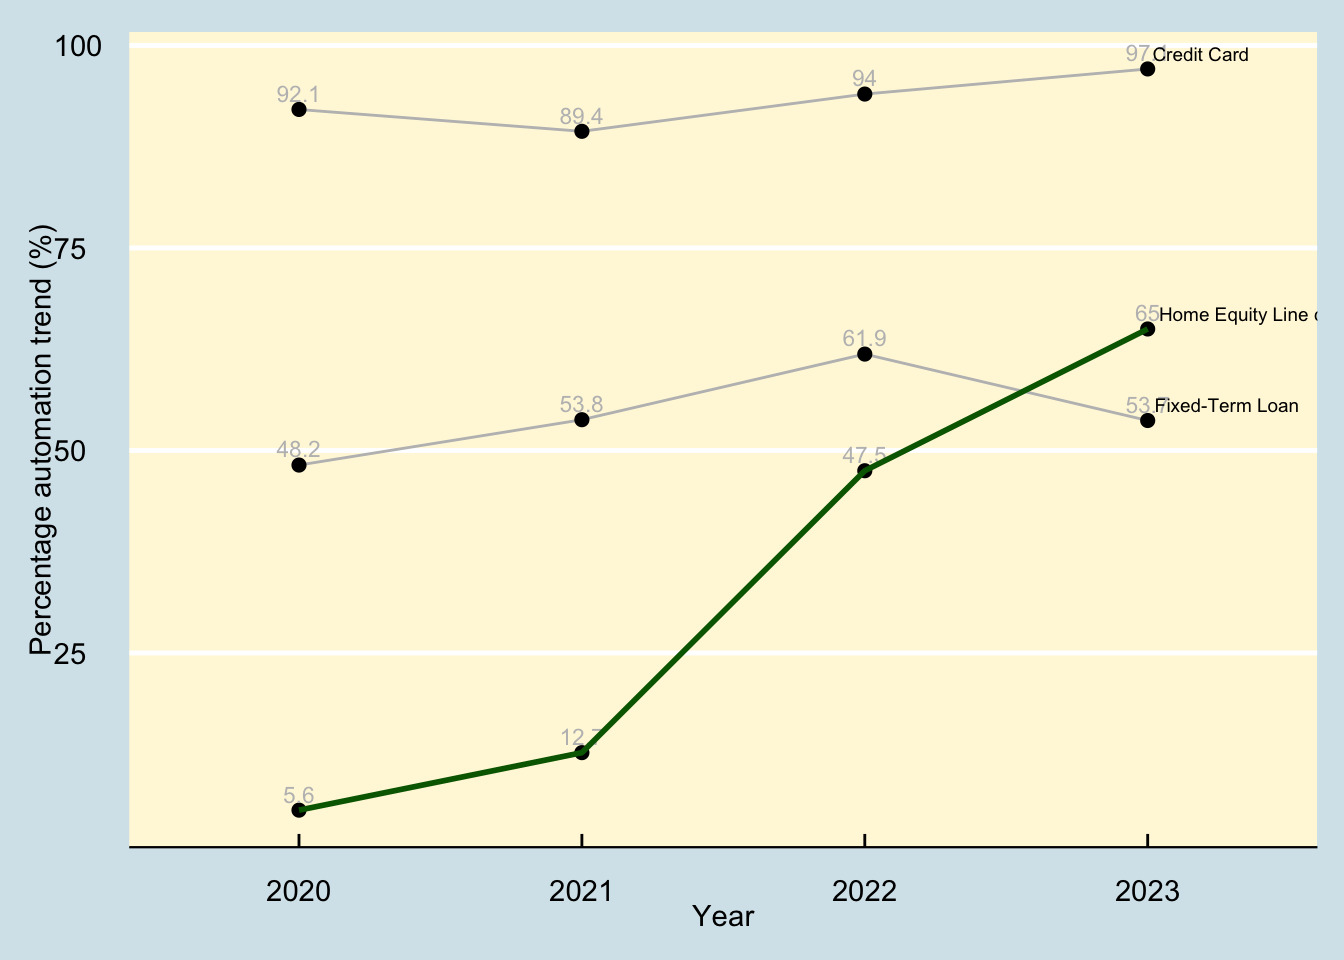
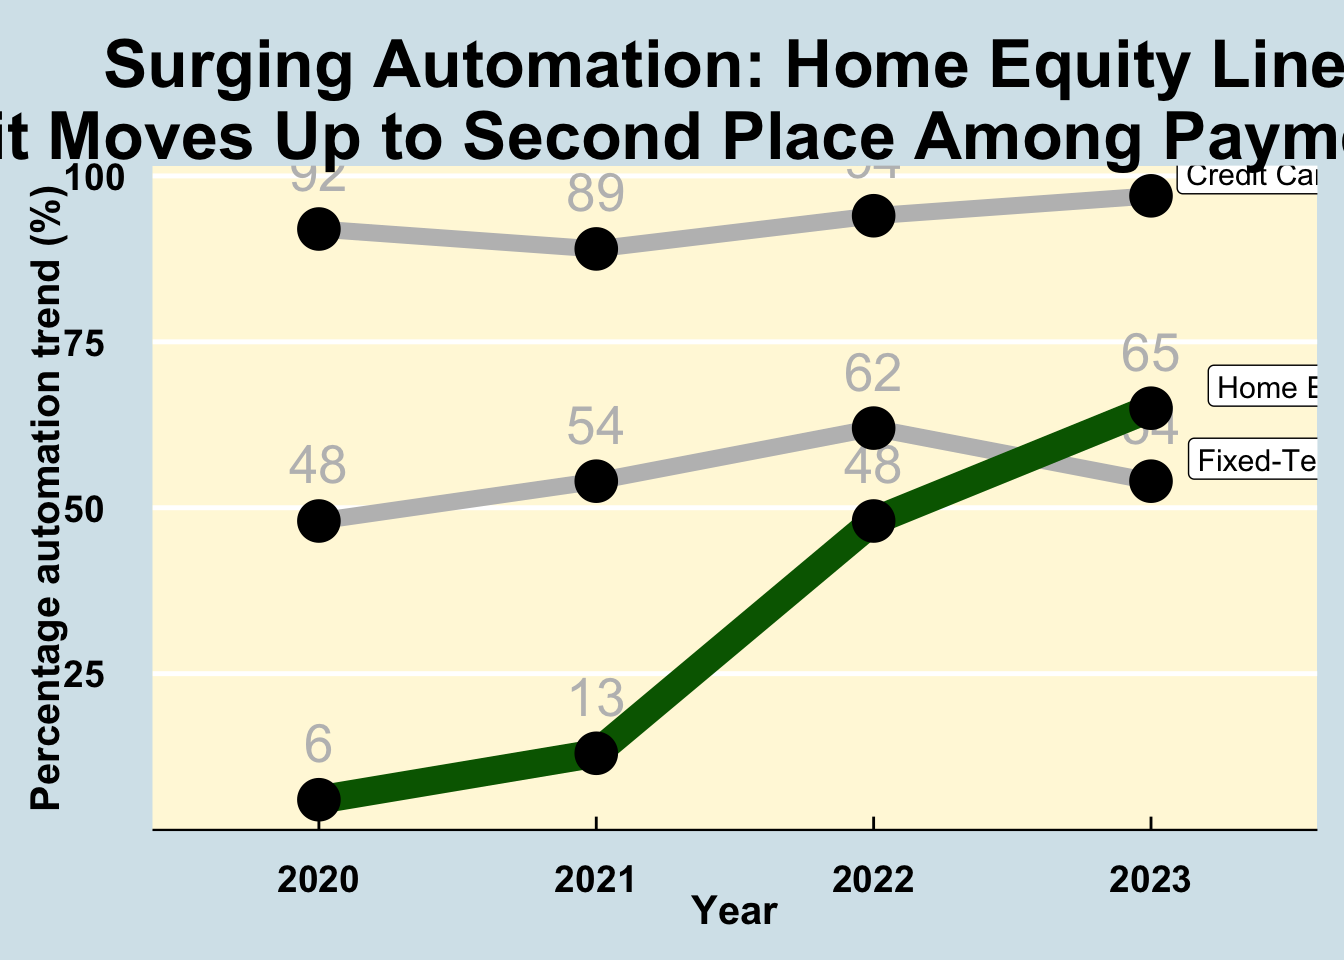
Labels highlighted for home credit line of payment

Changed region(s): [[0.0, 0.0312, 1.0, 0.9375], [0.5, 0.9375, 0.5938, 0.9688]]

diff --git a/February/Ex3.html b/February/Ex3.html
@@ -139,26 +139,34 @@ Specify the column types or set `show_col_types = FALSE` to quiet this message.
 </div>
 <div class="cell">
 <div class="sourceCode cell-code" id="cb8"><pre class="sourceCode r code-with-copy"><code class="sourceCode r"><span id="cb8-1"><a href="#cb8-1" aria-hidden="true" tabindex="-1"></a>pl1 <span class="ot">&lt;-</span></span>
-<span id="cb8-2"><a href="#cb8-2" aria-hidden="true" tabindex="-1"></a>  <span class="fu">ggplot</span>(<span class="at">data =</span> df_long, <span class="fu">aes</span>(<span class="at">x =</span> Year, <span class="at">y =</span> Percentage, <span class="at">group =</span> Type)) <span class="sc">+</span></span>
-<span id="cb8-3"><a href="#cb8-3" aria-hidden="true" tabindex="-1"></a>  <span class="fu">geom_line</span>(<span class="at">color =</span> <span class="st">"gray"</span>) <span class="sc">+</span> <span class="fu">theme_economist</span>() <span class="sc">+</span> <span class="fu">geom_point</span>(<span class="at">color =</span> <span class="st">"black"</span>, <span class="at">size =</span> <span class="dv">2</span>) <span class="sc">+</span> <span class="fu">geom_text</span>(</span>
-<span id="cb8-4"><a href="#cb8-4" aria-hidden="true" tabindex="-1"></a>    <span class="fu">aes</span>(<span class="at">label =</span> Percentage),</span>
-<span id="cb8-5"><a href="#cb8-5" aria-hidden="true" tabindex="-1"></a>    <span class="at">vjust =</span> <span class="sc">-</span><span class="fl">0.5</span>,</span>
-<span id="cb8-6"><a href="#cb8-6" aria-hidden="true" tabindex="-1"></a>    <span class="at">size =</span> <span class="dv">3</span>,</span>
+<span id="cb8-2"><a href="#cb8-2" aria-hidden="true" tabindex="-1"></a>  <span class="fu">ggplot</span>(<span class="at">data =</span> df_long, <span class="fu">aes</span>(<span class="at">x =</span> Year, <span class="at">y =</span> <span class="fu">round</span>(Percentage,<span class="dv">0</span>), <span class="at">group =</span> Type)) <span class="sc">+</span></span>
+<span id="cb8-3"><a href="#cb8-3" aria-hidden="true" tabindex="-1"></a>  <span class="fu">geom_line</span>(<span class="at">color =</span> <span class="st">"gray"</span>,<span class="at">size =</span> <span class="dv">3</span>) <span class="sc">+</span> <span class="fu">theme_economist</span>() <span class="sc">+</span>  <span class="fu">geom_text</span>(</span>
+<span id="cb8-4"><a href="#cb8-4" aria-hidden="true" tabindex="-1"></a>    <span class="fu">aes</span>(<span class="at">label =</span> <span class="fu">round</span>(Percentage,<span class="dv">0</span>)),</span>
+<span id="cb8-5"><a href="#cb8-5" aria-hidden="true" tabindex="-1"></a>    <span class="at">vjust =</span> <span class="sc">-</span><span class="dv">1</span>,</span>
+<span id="cb8-6"><a href="#cb8-6" aria-hidden="true" tabindex="-1"></a>    <span class="at">size =</span> <span class="dv">7</span>,</span>
 <span id="cb8-7"><a href="#cb8-7" aria-hidden="true" tabindex="-1"></a>    <span class="at">color =</span> <span class="st">"gray"</span></span>
 <span id="cb8-8"><a href="#cb8-8" aria-hidden="true" tabindex="-1"></a>  ) <span class="sc">+</span> <span class="fu">labs</span>(<span class="at">x =</span> <span class="st">"Year"</span>,</span>
-<span id="cb8-9"><a href="#cb8-9" aria-hidden="true" tabindex="-1"></a>           <span class="at">y =</span> <span class="st">"Percentage automation trend (%)"</span>) <span class="sc">+</span> <span class="fu">theme</span>(<span class="at">legend.text =</span> <span class="fu">element_text</span>(<span class="at">size =</span> <span class="dv">6</span>),</span>
-<span id="cb8-10"><a href="#cb8-10" aria-hidden="true" tabindex="-1"></a>                                                          <span class="at">panel.background =</span> <span class="fu">element_rect</span>(<span class="at">fill =</span> <span class="st">'cornsilk'</span>)) <span class="sc">+</span> <span class="fu">geom_line</span>(</span>
-<span id="cb8-11"><a href="#cb8-11" aria-hidden="true" tabindex="-1"></a>                                                            <span class="at">data =</span> <span class="sc">~</span> <span class="fu">filter</span>(.x, Type <span class="sc">==</span> <span class="st">"Home Equity Line of Credit"</span>),</span>
-<span id="cb8-12"><a href="#cb8-12" aria-hidden="true" tabindex="-1"></a>                                                            <span class="at">color =</span> <span class="st">"darkgreen"</span>,</span>
-<span id="cb8-13"><a href="#cb8-13" aria-hidden="true" tabindex="-1"></a>                                                            <span class="at">size =</span> <span class="dv">1</span></span>
-<span id="cb8-14"><a href="#cb8-14" aria-hidden="true" tabindex="-1"></a>                                                          )  <span class="sc">+</span> <span class="fu">geom_text</span>(</span>
-<span id="cb8-15"><a href="#cb8-15" aria-hidden="true" tabindex="-1"></a>                                                            <span class="at">data =</span> <span class="fu">filter</span>(df_long, Year <span class="sc">==</span> <span class="dv">2023</span>),</span>
-<span id="cb8-16"><a href="#cb8-16" aria-hidden="true" tabindex="-1"></a>                                                            <span class="fu">aes</span>(<span class="at">label =</span> Type),</span>
-<span id="cb8-17"><a href="#cb8-17" aria-hidden="true" tabindex="-1"></a>                                                            <span class="at">vjust =</span> <span class="sc">-</span><span class="fl">0.65</span>,</span>
-<span id="cb8-18"><a href="#cb8-18" aria-hidden="true" tabindex="-1"></a>                                                            <span class="at">hjust =</span> <span class="sc">-</span><span class="fl">0.05</span>,</span>
-<span id="cb8-19"><a href="#cb8-19" aria-hidden="true" tabindex="-1"></a>                                                            <span class="at">size =</span> <span class="fl">2.5</span>,</span>
-<span id="cb8-20"><a href="#cb8-20" aria-hidden="true" tabindex="-1"></a>                                                            <span class="at">color =</span> <span class="st">"black"</span></span>
-<span id="cb8-21"><a href="#cb8-21" aria-hidden="true" tabindex="-1"></a>                                                          )</span></code><button title="Copy to Clipboard" class="code-copy-button"><i class="bi"></i></button></pre></div>
+<span id="cb8-9"><a href="#cb8-9" aria-hidden="true" tabindex="-1"></a>           <span class="at">y =</span> <span class="st">"Percentage automation trend (%)"</span>,</span>
+<span id="cb8-10"><a href="#cb8-10" aria-hidden="true" tabindex="-1"></a>           <span class="at">title =</span> <span class="st">"Surging Automation: Home Equity Line </span><span class="sc">\n</span><span class="st"> of Credit Moves Up to Second Place Among Payment Methods"</span>) <span class="sc">+</span> <span class="fu">theme</span>(</span>
+<span id="cb8-11"><a href="#cb8-11" aria-hidden="true" tabindex="-1"></a>             <span class="at">legend.text =</span> <span class="fu">element_text</span>(<span class="at">size =</span> <span class="dv">6</span>),</span>
+<span id="cb8-12"><a href="#cb8-12" aria-hidden="true" tabindex="-1"></a>             <span class="at">axis.text =</span> <span class="fu">element_text</span>(<span class="at">size =</span> <span class="dv">14</span>,</span>
+<span id="cb8-13"><a href="#cb8-13" aria-hidden="true" tabindex="-1"></a>                                      <span class="at">face =</span> <span class="st">"bold"</span>),</span>
+<span id="cb8-14"><a href="#cb8-14" aria-hidden="true" tabindex="-1"></a>             <span class="at">axis.title =</span> <span class="fu">element_text</span>(<span class="at">size =</span> <span class="dv">15</span>,<span class="at">face =</span> <span class="st">"bold"</span>),</span>
+<span id="cb8-15"><a href="#cb8-15" aria-hidden="true" tabindex="-1"></a>             <span class="at">plot.title =</span> <span class="fu">element_text</span>(<span class="at">size =</span> <span class="dv">25</span>, <span class="at">hjust =</span> <span class="fl">0.5</span>),</span>
+<span id="cb8-16"><a href="#cb8-16" aria-hidden="true" tabindex="-1"></a>             <span class="at">panel.background =</span> <span class="fu">element_rect</span>(<span class="at">fill =</span> <span class="st">'cornsilk'</span>)</span>
+<span id="cb8-17"><a href="#cb8-17" aria-hidden="true" tabindex="-1"></a>           ) <span class="sc">+</span> <span class="fu">geom_line</span>(</span>
+<span id="cb8-18"><a href="#cb8-18" aria-hidden="true" tabindex="-1"></a>                                                            <span class="at">data =</span> <span class="sc">~</span> <span class="fu">filter</span>(.x, Type <span class="sc">==</span> <span class="st">"Home Equity Line of Credit"</span>),</span>
+<span id="cb8-19"><a href="#cb8-19" aria-hidden="true" tabindex="-1"></a>                                                            <span class="at">color =</span> <span class="st">"darkgreen"</span>,</span>
+<span id="cb8-20"><a href="#cb8-20" aria-hidden="true" tabindex="-1"></a>                                                            <span class="at">size =</span> <span class="dv">5</span>,</span>
+<span id="cb8-21"><a href="#cb8-21" aria-hidden="true" tabindex="-1"></a>                                                    </span>
+<span id="cb8-22"><a href="#cb8-22" aria-hidden="true" tabindex="-1"></a>                                                          )  <span class="sc">+</span> <span class="fu">geom_label</span>(</span>
+<span id="cb8-23"><a href="#cb8-23" aria-hidden="true" tabindex="-1"></a>                                                            <span class="at">data =</span> <span class="fu">filter</span>(df_long, Year <span class="sc">==</span> <span class="dv">2023</span>),</span>
+<span id="cb8-24"><a href="#cb8-24" aria-hidden="true" tabindex="-1"></a>                                                            <span class="fu">aes</span>(<span class="at">label =</span> Type),</span>
+<span id="cb8-25"><a href="#cb8-25" aria-hidden="true" tabindex="-1"></a>                                                            <span class="at">vjust =</span> <span class="sc">-</span><span class="fl">0.05</span>,</span>
+<span id="cb8-26"><a href="#cb8-26" aria-hidden="true" tabindex="-1"></a>                                                            <span class="at">hjust =</span> <span class="sc">-</span><span class="fl">0.15</span>,</span>
+<span id="cb8-27"><a href="#cb8-27" aria-hidden="true" tabindex="-1"></a>                                                            <span class="at">size =</span> <span class="dv">4</span>,</span>
+<span id="cb8-28"><a href="#cb8-28" aria-hidden="true" tabindex="-1"></a>                                                            <span class="at">color =</span> <span class="st">"black"</span></span>
+<span id="cb8-29"><a href="#cb8-29" aria-hidden="true" tabindex="-1"></a>                                                          ) <span class="sc">+</span> <span class="fu">geom_point</span>(<span class="at">color =</span> <span class="st">"black"</span>, <span class="at">size =</span> <span class="dv">7</span>) </span></code><button title="Copy to Clipboard" class="code-copy-button"><i class="bi"></i></button></pre></div>
 <div class="cell-output cell-output-stderr">
 <pre><code>Warning: Using `size` aesthetic for lines was deprecated in ggplot2 3.4.0.
 ℹ Please use `linewidth` instead.</code></pre>
